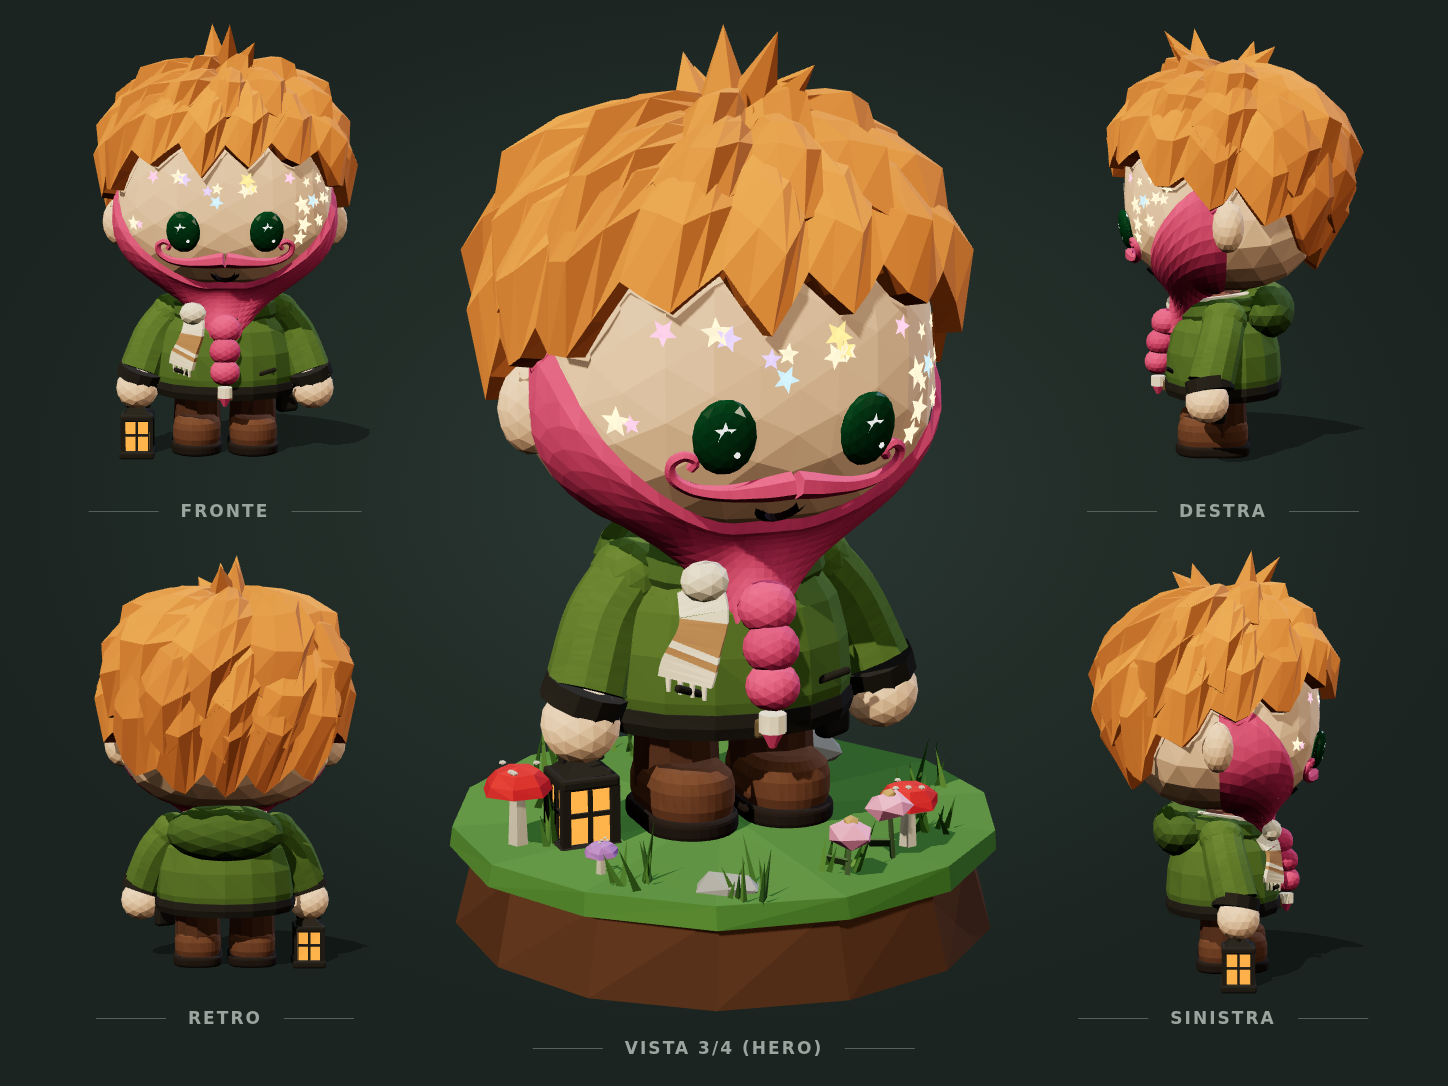
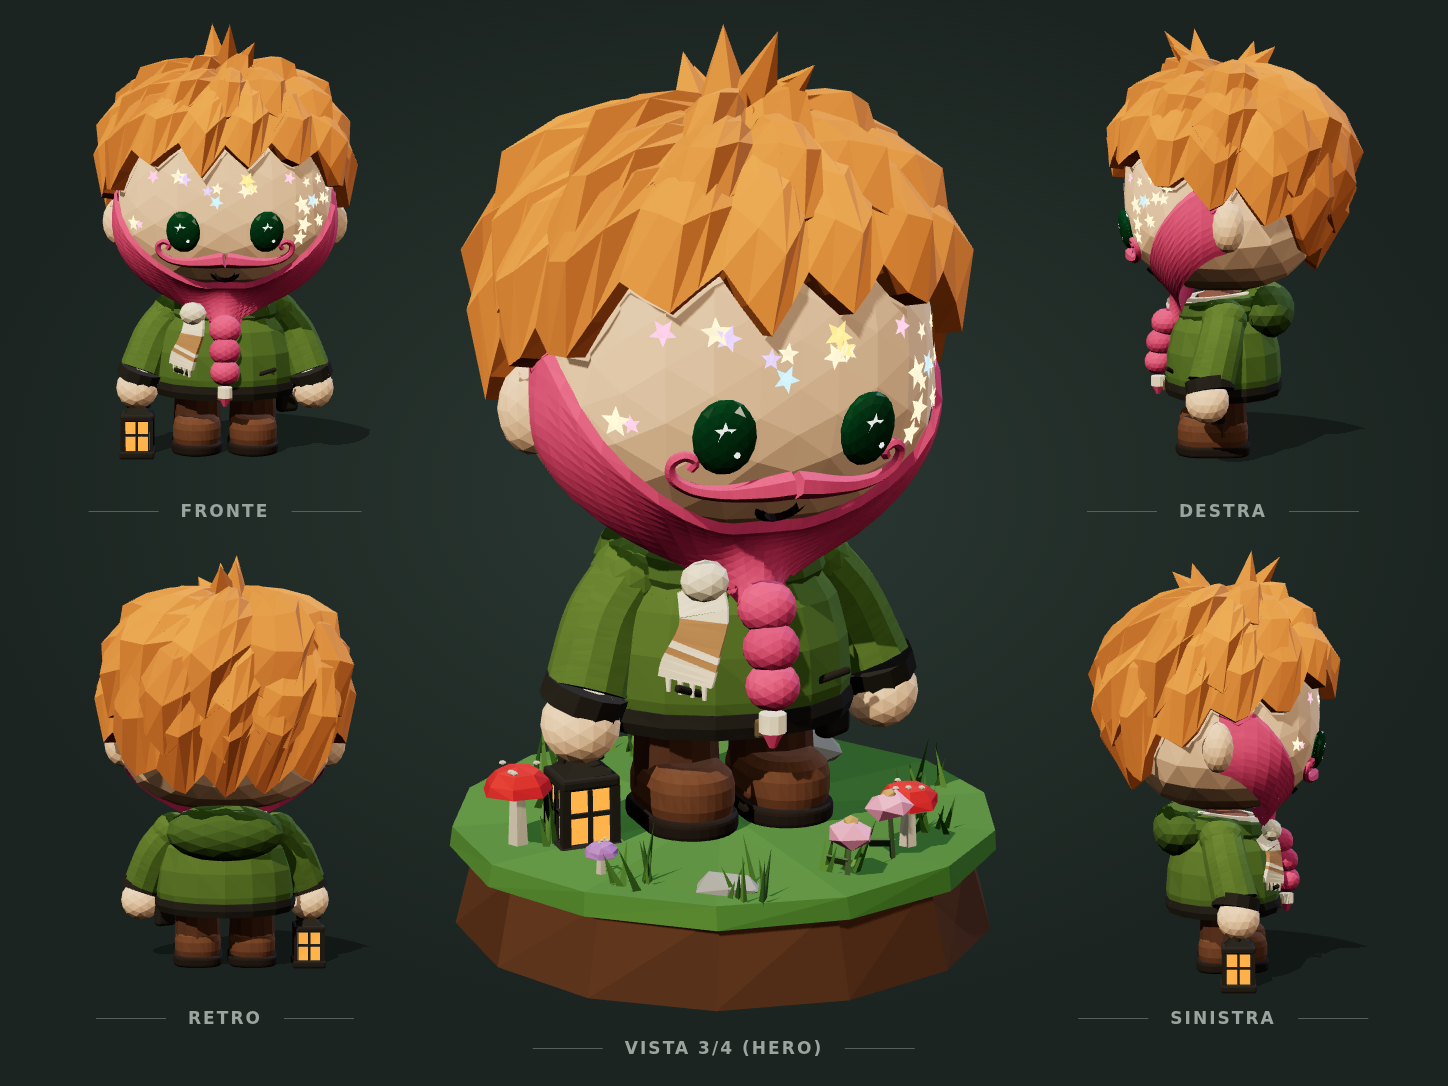
Style prototype v2: beard side profile as drawn (narrow at the ear, diagonal back edge)
The lower edge rises towards the ear (beardLow) and the mass tapers
gradually towards the sides: seen from the side the beard is narrow in
front of the ear, runs straight down the cheek in front and slopes
diagonally from the ear to the chin at the back; cheeks stay thin.

Claude-Session: https://claude.ai/code/session_01U6u5RojYrwYjZd8sSRU7em

diff --git a/Prototype-3d/src/proto/custodeV2.ts b/Prototype-3d/src/proto/custodeV2.ts
@@ -248,9 +248,13 @@ function glitter(lp: LP) {
 /** Bordo inferiore della barba (φ, gradi): sotto il mento, ma non così in basso da finire dietro il colletto. */
 const BEARD_LOW = -72;
 const BEARD_DROP = 0.1;
+/** Bordo inferiore lungo la mandibola: sotto il mento davanti, sale verso l'orecchio (profilo a diagonale). */
+const beardLow = (u: number) => lerp(BEARD_LOW, -28, smooth(0.25, 1, Math.abs(u)));
 function beardOffset(u: number, v: number, n: THREE.Vector3): { t: number; dir: THREE.Vector3 } {
   const side = smooth(0, 0.1, 1 - Math.abs(u));
-  const jaw = smooth(0.8, 0.35, Math.abs(u)); // largo sotto la mandibola, sfuma prima delle guance
+  // di profilo il bordo posteriore scende in diagonale dall'orecchio al mento:
+  // la massa cala gradualmente andando verso l'orecchio
+  const jaw = Math.pow(THREE.MathUtils.clamp(1 - Math.abs(u) / 0.95, 0, 1), 1.3); // sulle guance resta sottile
   const low = Math.pow(1 - v, 2.2); // solo la parte bassa si allunga: le guance restano sottili
   // sotto il mento, davanti, un po' di spessore in più che cresce in avanti
   const front = smooth(0.55, 0, Math.abs(u)) * low;
@@ -273,7 +277,7 @@ function beard(lp: LP) {
     const u = -1 + (2 * i) / NU, th = u * 92;
     for (let j = 0; j <= NV; j++) {
       const v = j / NV; // 0 sotto il mento, 1 bordo superiore
-      const { p, n } = headAt(th * DEG, lerp(BEARD_LOW, beardTop(th), v) * DEG);
+      const { p, n } = headAt(th * DEG, lerp(beardLow(u), beardTop(th), v) * DEG);
       const { t, dir } = beardOffset(u, v, n);
       inner[i].push(p.clone());
       outer[i].push(p.clone().addScaledVector(dir, t));

diff --git a/Prototype-3d/docs/audit-stile-custode-v2.md b/Prototype-3d/docs/audit-stile-custode-v2.md
@@ -95,6 +95,9 @@ Tredicesima passata:
 - **Treccia:** di conseguenza si attacca un po' più avanti.
 - **Bocca:** centrata.
 
+Quattordicesima passata:
+- **Barba di profilo:** stretta in alto, davanti all'orecchio; davanti scende dritta lungo la guancia fino a sotto il mento; dietro il bordo cala in diagonale dall'orecchio al mento. Il bordo inferiore sale verso l'orecchio (`beardLow`) e la massa diminuisce gradualmente verso i lati, quindi le guance restano sottili.
+
 ## Prestazioni su telefono (app Capacitor)
 
 Con Capacitor il gioco gira nel WebView del sistema (WKWebView su iOS, WebView di Chrome su Android): le prestazioni sono quelle del browser del telefono. Che il gioco funzioni offline non cambia nulla, perché il lavoro lo fanno GPU e CPU del dispositivo.
